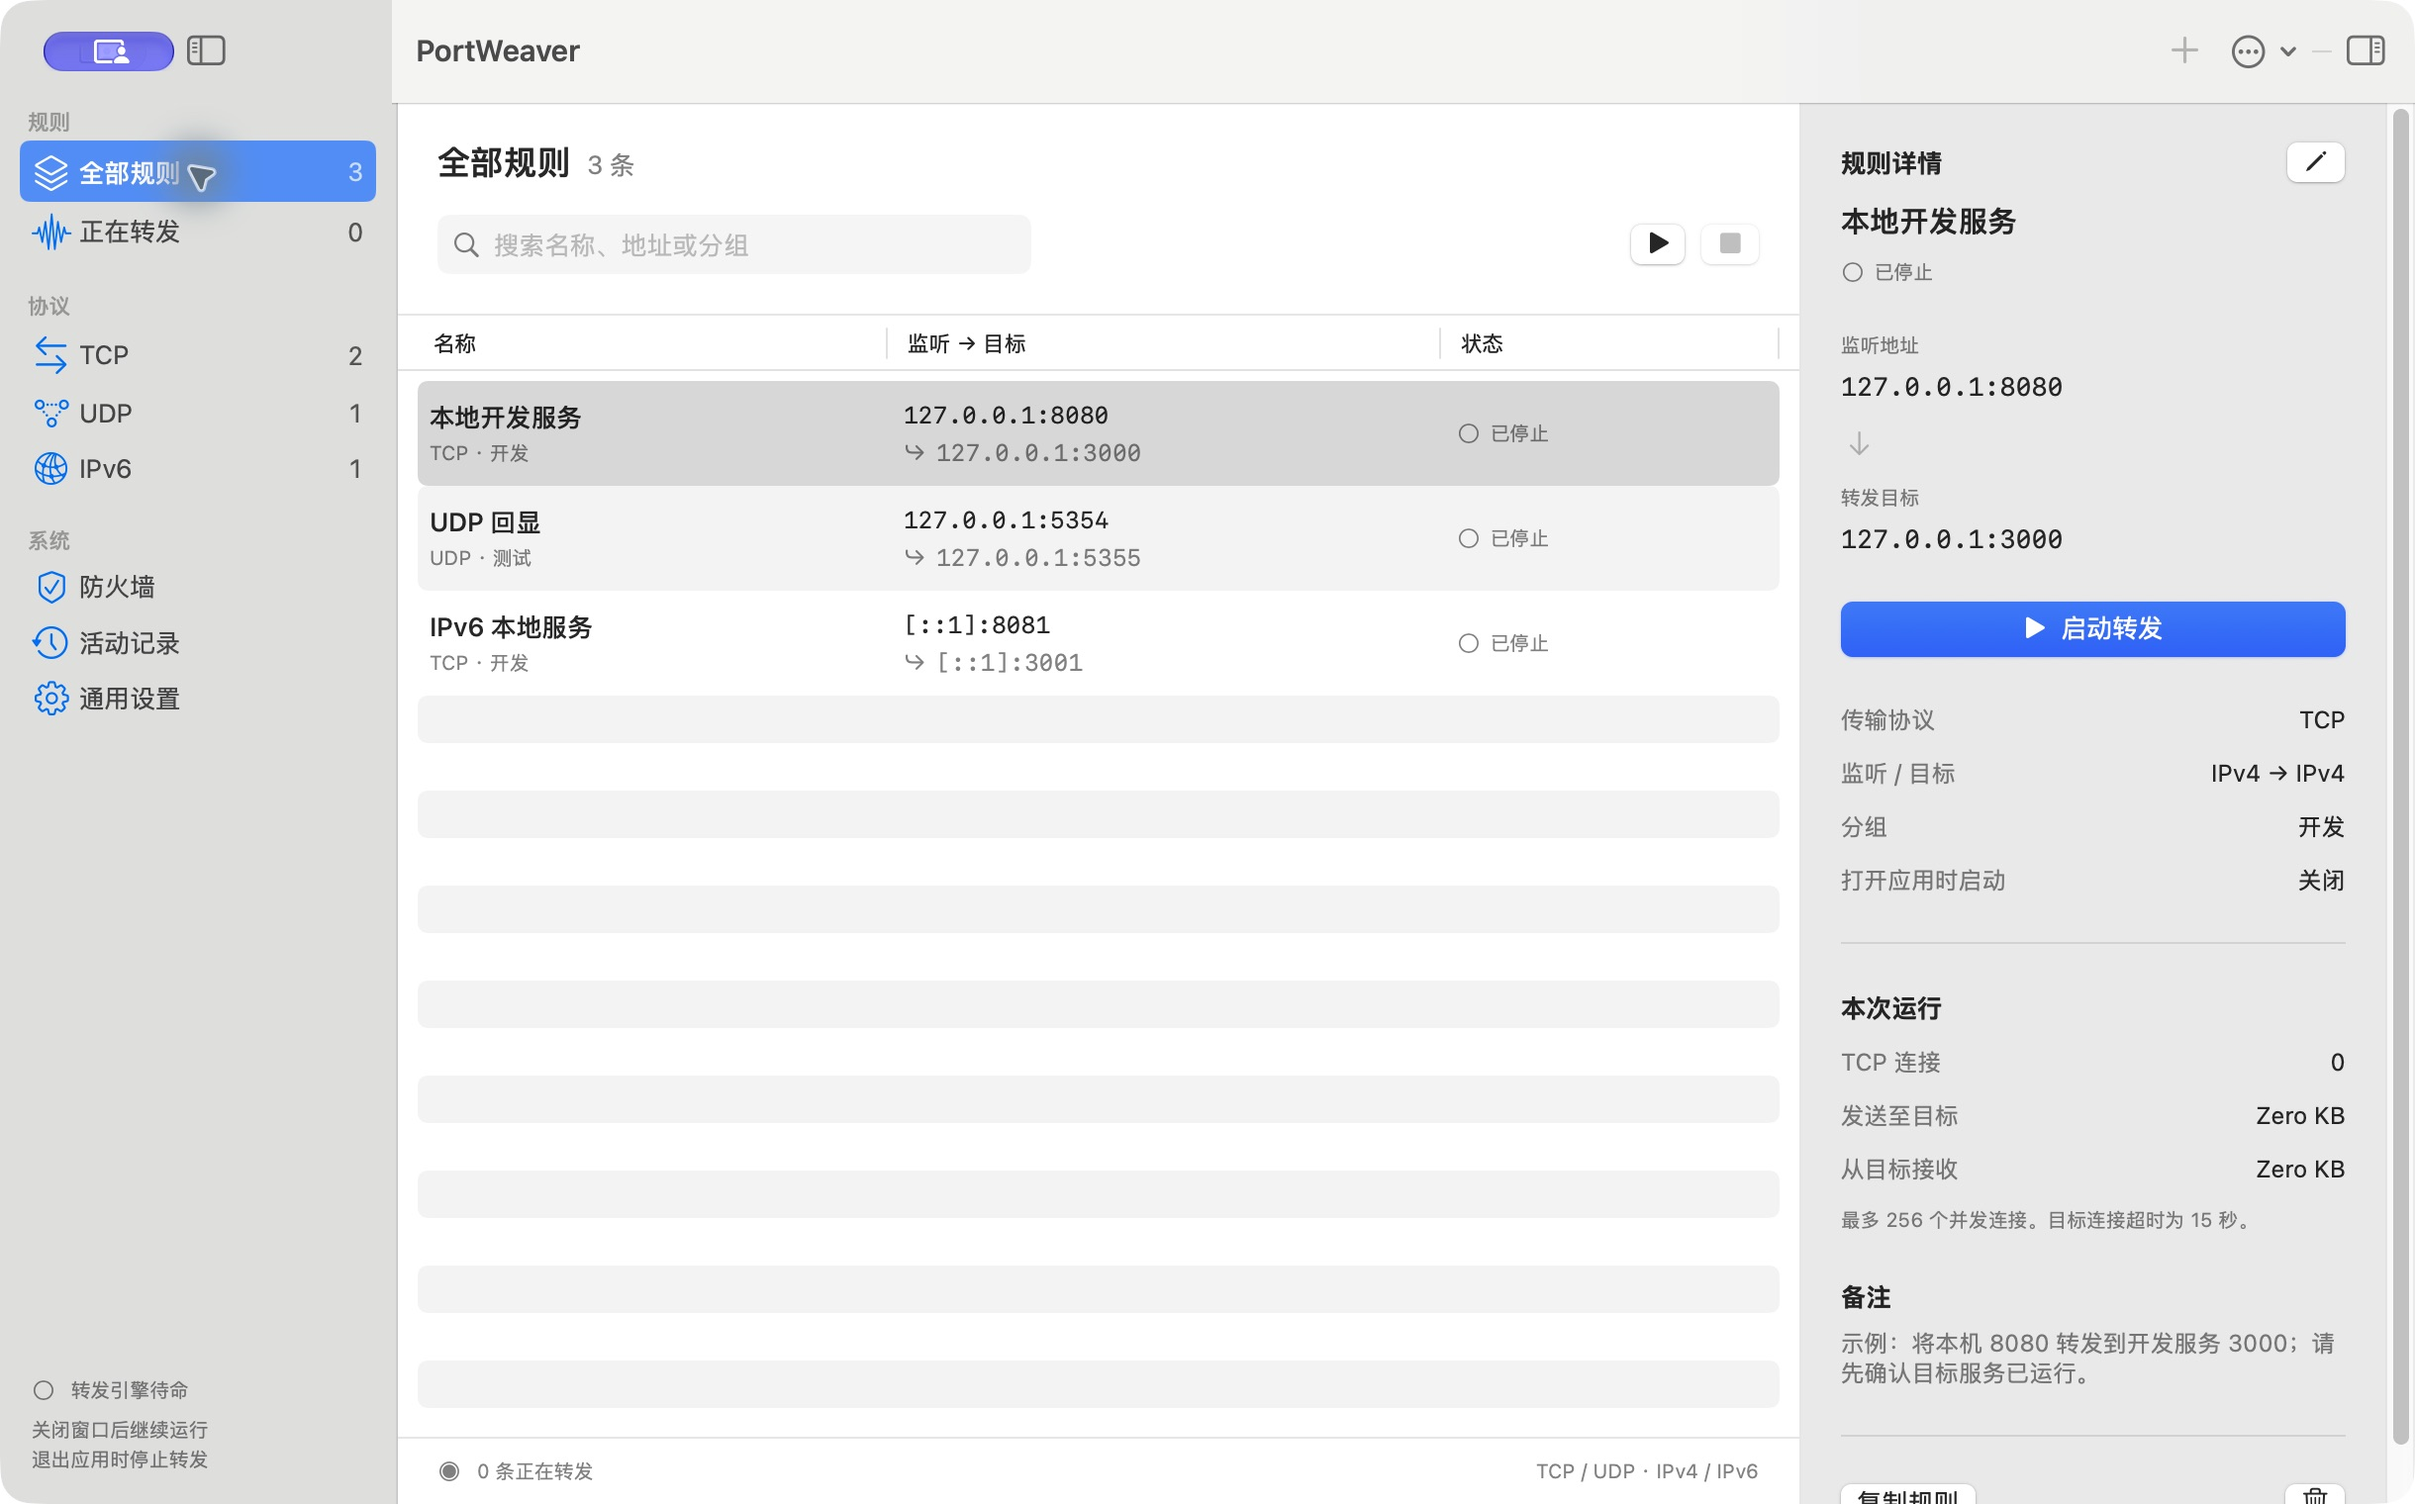
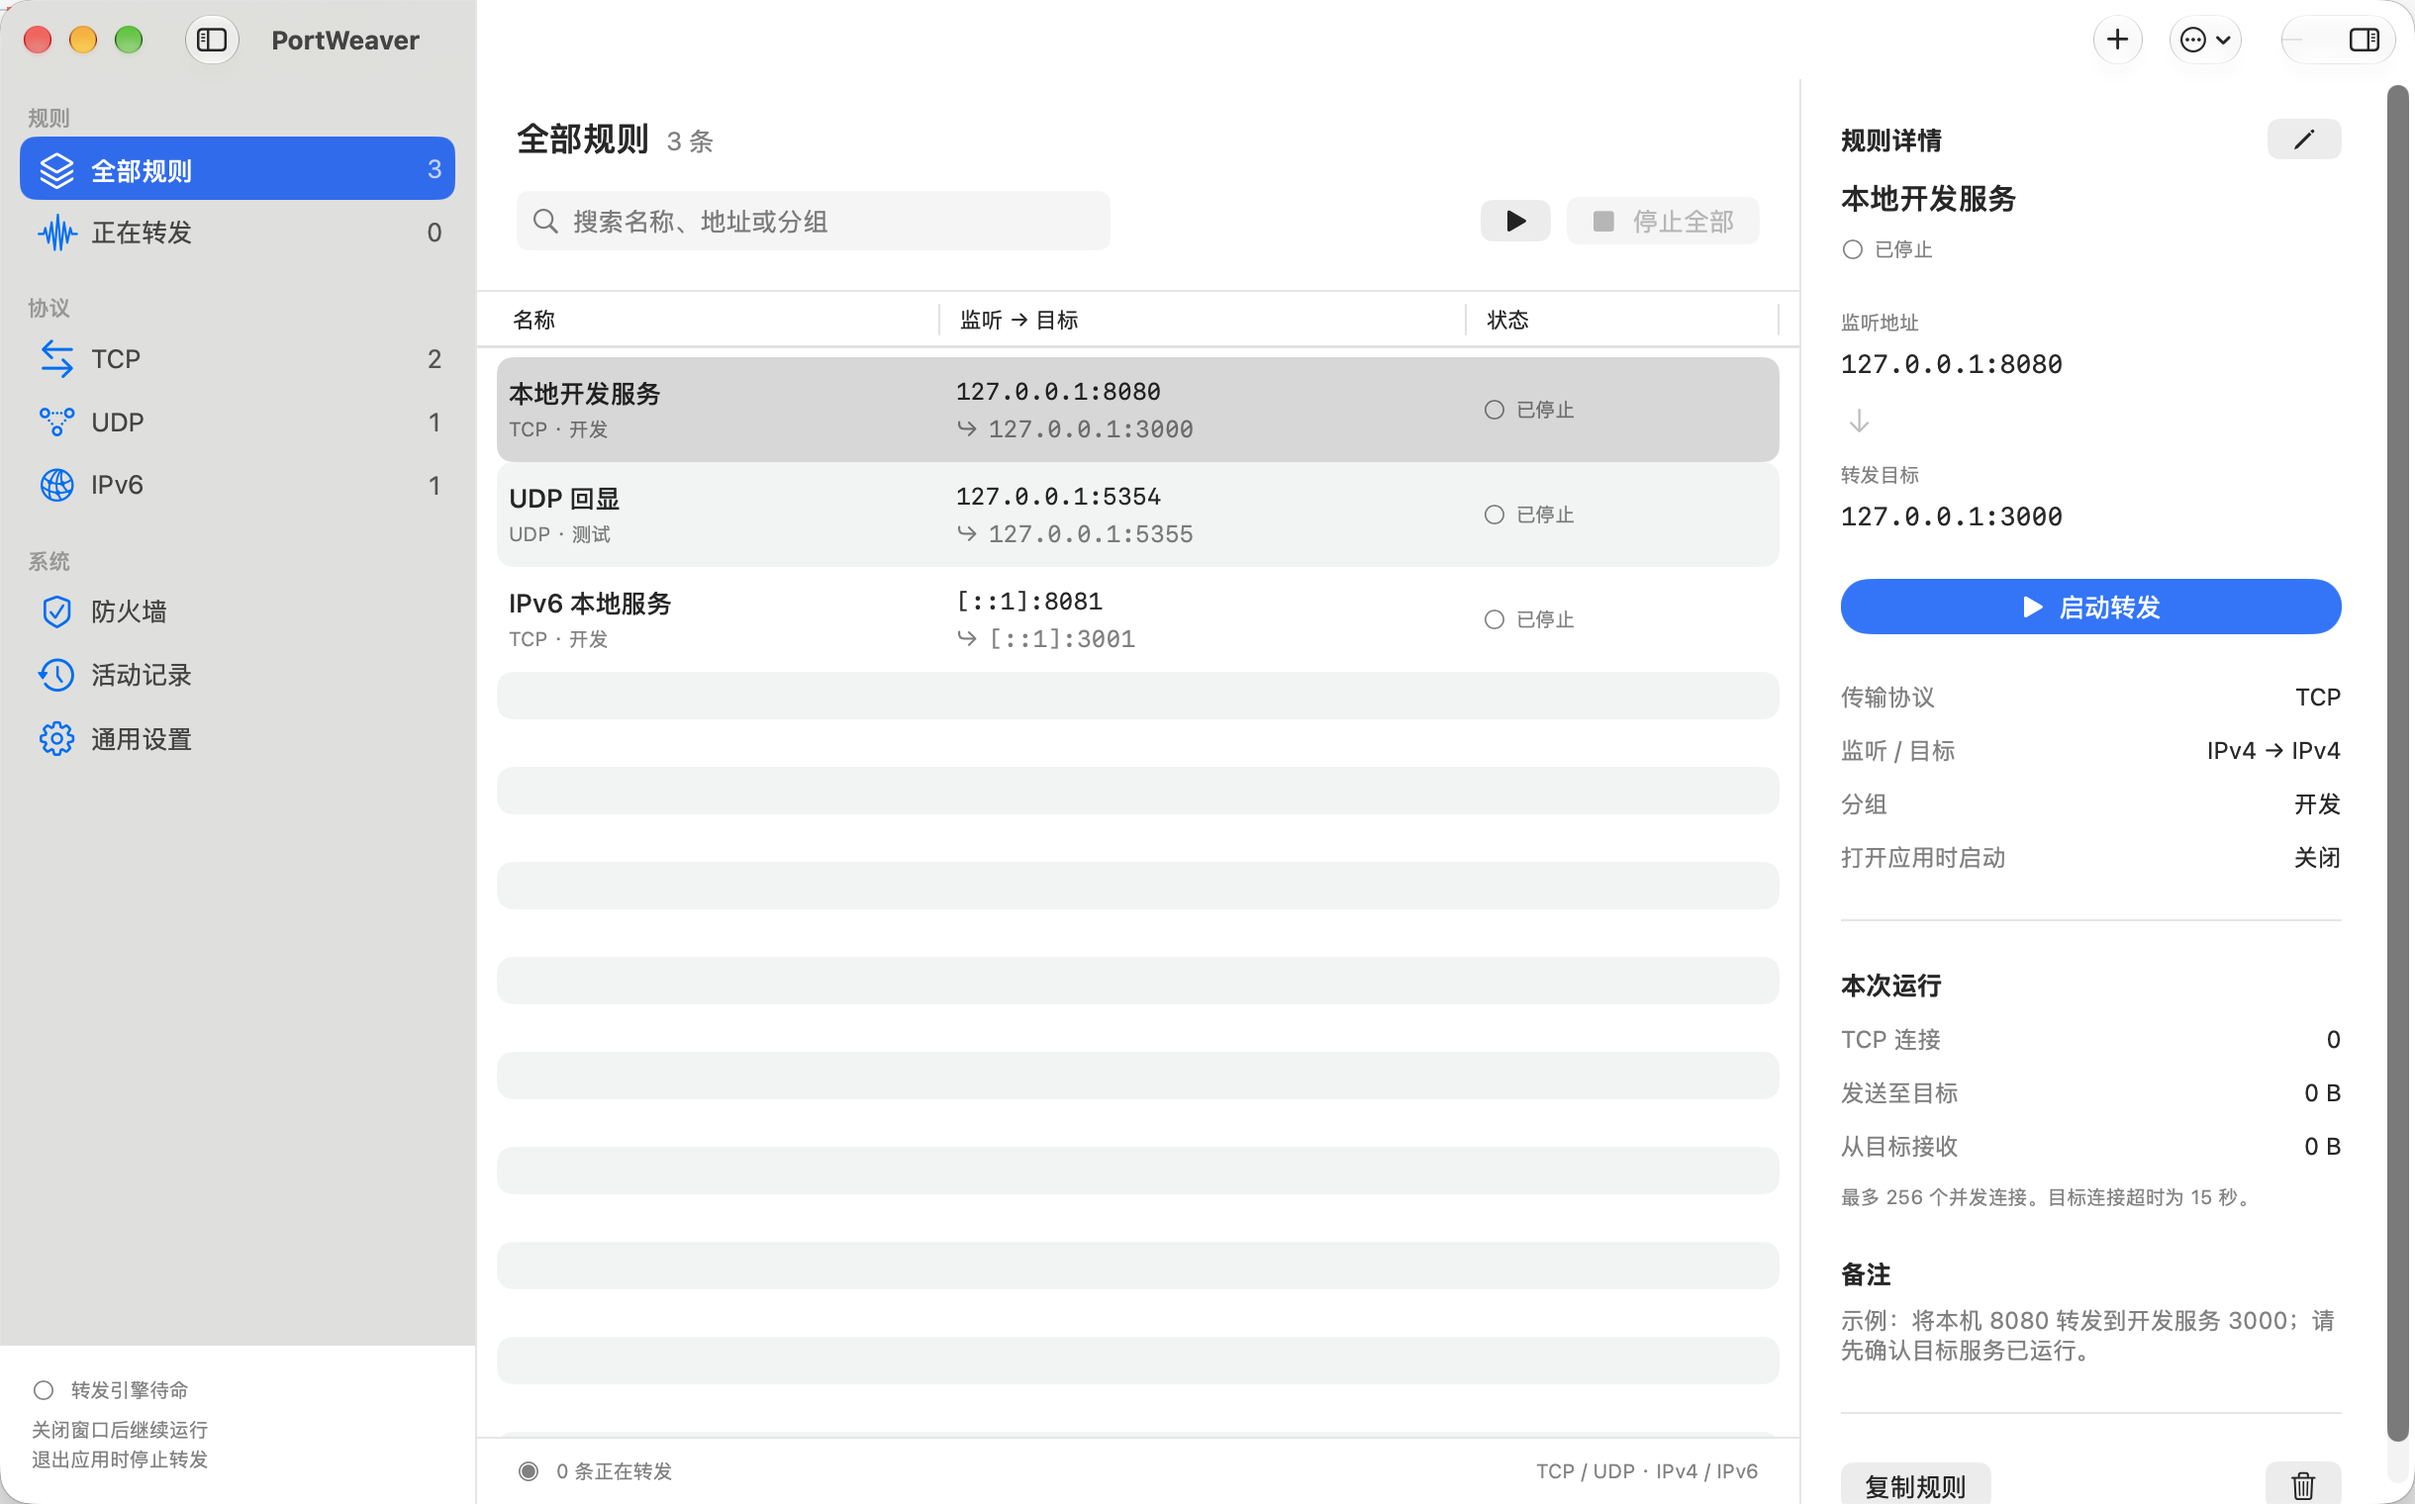
Refresh README and documentation screenshot

diff --git a/UITests/PortWeaverUITests.swift b/UITests/PortWeaverUITests.swift
@@ -31,6 +31,15 @@ final class PortWeaverUITests: XCTestCase {
         add(attachment)
     }
 
+    func testCaptureDocumentationScreenshot() {
+        let window = app.windows["main"]
+        XCTAssertTrue(window.waitForExistence(timeout: 10))
+        let attachment = XCTAttachment(screenshot: window.screenshot())
+        attachment.name = "documentation-main-window"
+        attachment.lifetime = .keepAlways
+        add(attachment)
+    }
+
     func testWindowAndSettingsReuseSingleMainWindow() {
         for _ in 0..<3 {
             showStatusPanel()

diff --git a/README.md b/README.md
@@ -2,7 +2,22 @@
 
 原生 macOS TCP / UDP 端口转发规则管理器。SwiftUI 界面，使用 Network.framework 转发，无第三方运行依赖。
 
+[![CI](https://github.com/GetZ110/PortWeaver/actions/workflows/ci.yml/badge.svg)](https://github.com/GetZ110/PortWeaver/actions/workflows/ci.yml)
+![macOS 14+](https://img.shields.io/badge/macOS-14%2B-black?logo=apple)
+![Swift](https://img.shields.io/badge/Swift-5.9%2B-orange?logo=swift)
+[![MIT License](https://img.shields.io/badge/license-MIT-blue.svg)](LICENSE)
+
 ![PortWeaver rules window](docs/screenshot.png)
+
+## 下载与安装
+
+系统要求：macOS 14 或更高。通用版本支持 Apple Silicon 和 Intel Mac。
+
+1. 从 [GitHub Releases](https://github.com/GetZ110/PortWeaver/releases/latest) 下载最新的 `PortWeaver-1.0.0-universal.dmg`。
+2. 打开 DMG，将 `PortWeaver.app` 拖入“应用程序”。
+3. 从“应用程序”启动 PortWeaver，点击 `+` 创建第一条转发规则。
+
+当前发布包使用 ad-hoc 临时签名，尚未使用 Developer ID 签名和 Apple 公证。跨设备分发时，macOS 可能要求前往“系统设置 → 隐私与安全性”允许打开。正式公开分发应使用有效的 Developer ID 签名、公证并装订公证票据；本工程不包含开发者证书。
 
 ## 功能
 
@@ -18,12 +33,6 @@
 - 支持系统明暗模式、原生表格、检查器、快捷键与辅助功能标签。
 
 首次启动为空列表，不创建活动监听。“配置 → 添加示例规则”仅添加未启动的示例。`--preview` 仅供界面检查，不持久化，不监听。
-
-## 安装
-
-打开 `build/PortWeaver-1.0.0-universal.dmg`，将应用拖入 Applications 后运行。系统要求 macOS 14+；通用二进制支持 Apple Silicon 与 Intel。
-
-此构建使用 ad-hoc 临时签名，尚未进行 Developer ID 签名和 Apple 公证。跨设备分发可能触发系统拦截。正式分发需自行使用有效 Developer ID 签名、公证并装订公证票据；本工程未包含开发者证书。
 
 ## 开发与构建
 
